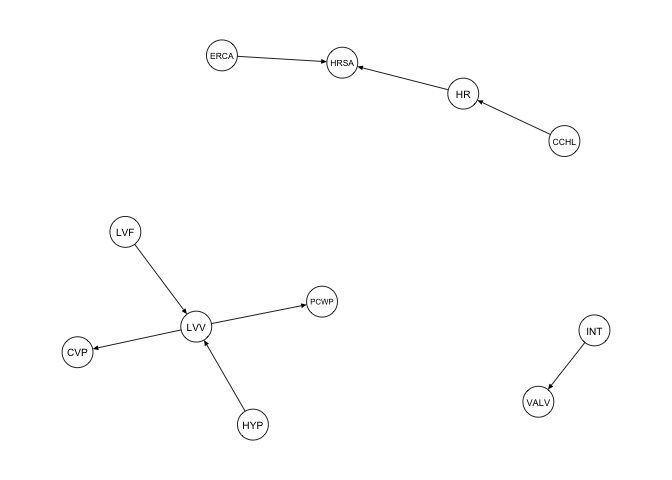
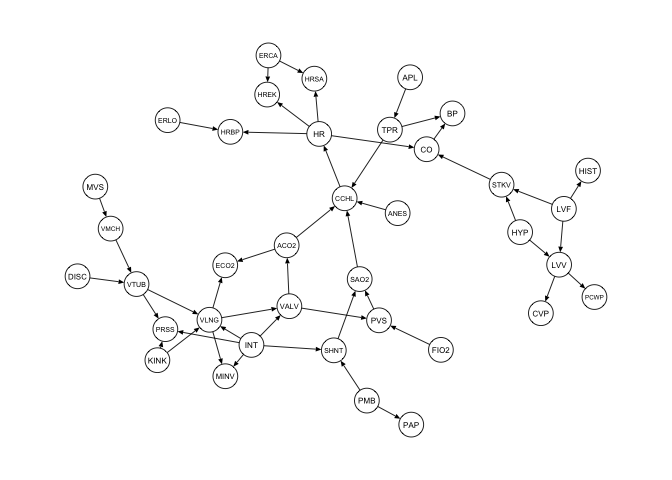
add ntb 02 zenodo ref

diff --git a/notebook_02_subgraph_selection_evaluation_publish.md b/notebook_02_subgraph_selection_evaluation_publish.md
@@ -1,10 +1,6 @@
-Graph subset selection
-================
-David Reiffenscheidt and Oleksandr Zadorozhnyi
+***Setup of the problem***
 
-**Setup of the problem**
-
-Given a "large" graph *G* = (*V*,*E*), where *V* represents the set of
+Given a large graph *G* = (*V*,*E*), where *V* represents the set of
 nodes and *E* represents the set of edges, the goal is to select a
 subgraph *S* = (*V*<sub>*s*</sub>,*E*<sub>*s*</sub>) from G such that S
 is a meaningful and informative representation of the original graph
@@ -42,9 +38,104 @@ library("igraph")
     ## 
     ##     union
 
+Reading the files from Zenodo entry in the community
+
+``` r
+# necessary libraries to use for Zenodo REST-API
+library(litr)
+library(zen4R)
+
+zenodo <- ZenodoManager$new(
+  logger = "INFO" # use "DEBUG" to see detailed API operation logs, use NULL if you don't want logs at all
+)
+
+# downloading files using zenodo doi and reading from the file 
+rec1 <- zenodo$getRecordByDOI("10.5281/zenodo.7676616")
+```
+
+    ## [zen4R][INFO] ZenodoRequest - Fetching https://zenodo.org/api/records/?q=doi:%2210.5281/zenodo.7676616%22&size=10&page=1&all_versions=1 
+    ## [zen4R][INFO] ZenodoManager - Successfully fetched list of published records - page 1 
+    ## [zen4R][INFO] ZenodoManager - Successfully fetched list of published records! 
+    ## [zen4R][INFO] ZenodoManager - Successfully fetched record for DOI '10.5281/zenodo.7676616'!
+
+``` r
+files <- rec1$listFiles(pretty = TRUE)
+
+#create a folder where to download files from record
+dir.create("download_zenodo")
+```
+
+    ## Warning in dir.create("download_zenodo"): 'download_zenodo' already exists
+
+``` r
+#download files
+rec1$downloadFiles(path = "download_zenodo")
+```
+
+    ## [zen4R][INFO] ZenodoRecord - Download in sequential mode 
+    ## [zen4R][INFO] ZenodoRecord - Will download 1 file from record '7676616' (doi: '10.5281/zenodo.7676616') - total size: 2 MiB 
+    ## [zen4R][INFO] Downloading file 'bnlearn_data.zip' - size: 2 MiB
+    ## [zen4R][INFO] File downloaded at '/Users/admin/Work/MaRDITA3/Notebooks/StMaRDI/download_zenodo'.
+    ## [zen4R][INFO] ZenodoRecord - Verifying file integrity... 
+    ## [zen4R][INFO] File 'bnlearn_data.zip': integrity verified (md5sum: f123ea701227cfd8a43996183b7c5279)
+    ## [zen4R][INFO] ZenodoRecord - End of download
+
+``` r
+downloaded_files <- list.files("download_zenodo")
+
+zipF = sprintf("download_zenodo/%s",downloaded_files)
+
+# unzipping in the current folder
+unzip(zipF,exdir = "./")
+
+alarm_name = list.files(tools::file_path_sans_ext(downloaded_files))[1]
+
+path_to_file = paste0(tools::file_path_sans_ext(downloaded_files),"/",alarm_name,"/",alarm_name,".csv")
+
+df = read.csv(path_to_file)
+head(df)
+```
+
+    ##      CVP   PCWP  HIST    TPR     BP     CO HRBP HREK HRSA    PAP   SAO2   FIO2
+    ## 1 NORMAL NORMAL FALSE    LOW NORMAL   HIGH HIGH HIGH HIGH NORMAL NORMAL    LOW
+    ## 2 NORMAL NORMAL FALSE NORMAL    LOW    LOW HIGH HIGH HIGH NORMAL    LOW NORMAL
+    ## 3 NORMAL   HIGH FALSE NORMAL NORMAL   HIGH HIGH HIGH HIGH NORMAL    LOW NORMAL
+    ## 4 NORMAL NORMAL FALSE    LOW    LOW   HIGH HIGH HIGH HIGH NORMAL NORMAL NORMAL
+    ## 5 NORMAL NORMAL FALSE    LOW    LOW NORMAL HIGH HIGH HIGH NORMAL    LOW NORMAL
+    ## 6 NORMAL NORMAL FALSE    LOW NORMAL   HIGH HIGH HIGH HIGH NORMAL    LOW NORMAL
+    ##     PRSS ECO2 MINV    MVS   HYP   LVF   APL  ANES   PMB    INT  KINK  DISC
+    ## 1   HIGH ZERO HIGH NORMAL FALSE FALSE FALSE FALSE FALSE NORMAL FALSE  TRUE
+    ## 2   HIGH ZERO ZERO NORMAL FALSE FALSE FALSE FALSE FALSE NORMAL FALSE FALSE
+    ## 3 NORMAL ZERO ZERO NORMAL FALSE FALSE FALSE FALSE FALSE NORMAL FALSE FALSE
+    ## 4   HIGH ZERO ZERO NORMAL FALSE FALSE FALSE FALSE FALSE NORMAL FALSE FALSE
+    ## 5    LOW ZERO ZERO NORMAL FALSE FALSE FALSE FALSE FALSE NORMAL FALSE FALSE
+    ## 6   HIGH HIGH ZERO NORMAL FALSE FALSE FALSE  TRUE FALSE NORMAL FALSE FALSE
+    ##      LVV   STKV CCHL  ERLO   HR  ERCA   SHNT    PVS   ACO2 VALV VLNG VTUB
+    ## 1 NORMAL NORMAL HIGH FALSE HIGH FALSE NORMAL NORMAL NORMAL HIGH  LOW ZERO
+    ## 2 NORMAL    LOW HIGH FALSE HIGH FALSE NORMAL    LOW    LOW ZERO ZERO  LOW
+    ## 3 NORMAL NORMAL HIGH FALSE HIGH FALSE NORMAL    LOW    LOW ZERO ZERO  LOW
+    ## 4 NORMAL NORMAL HIGH FALSE HIGH FALSE NORMAL NORMAL    LOW ZERO ZERO  LOW
+    ## 5 NORMAL NORMAL HIGH FALSE HIGH FALSE NORMAL    LOW    LOW ZERO ZERO  LOW
+    ## 6 NORMAL NORMAL HIGH FALSE HIGH FALSE NORMAL    LOW    LOW ZERO ZERO  LOW
+    ##     VMCH
+    ## 1 NORMAL
+    ## 2 NORMAL
+    ## 3 NORMAL
+    ## 4 NORMAL
+    ## 5 NORMAL
+    ## 6 NORMAL
+
+We need to transform data first
+
+``` r
+for (item in colnames(df)){
+  df[,item] = as.factor(df[,item])
+}
+```
+
 ``` r
 data("alarm")
-alarm_df <- as.data.frame(na.omit(alarm))
+alarm_df <- as.data.frame(na.omit(df))
 
 p = length(names(alarm))
 n = dim(alarm)[1]
@@ -53,14 +144,14 @@ for (i in c(1:p)) {
 }
 ```
 
-Applying nonparanormal transformation to standardize the data.
+#### Applying nonparanormal transformation to standardize the data.
 
 ``` r
 library("huge")
 alarm_df <- huge.npn(alarm_df)
 ```
 
-Conducting the nonparanormal (npn) transformation via shrunkun ECDF....done.
+    ## Conducting the nonparanormal (npn) transformation via shrunkun ECDF....done.
 
 ``` r
 #####
@@ -79,7 +170,7 @@ qgraph(dag_alarm, legend.cex = 0.3,
        asize=2,edge.color="black", vsize= 4)
 ```
 
-![](notebook_02_subgraph_selection_evaluation_publish_files/figure-markdown_github/unnamed-chunk-4-1.png)
+![](notebook_02_subgraph_selection_evaluation_publish_files/figure-markdown_github/unnamed-chunk-6-1.png)
 
 Selection of the set of nodes for subsetting
 
@@ -98,14 +189,14 @@ qgraph(procedure1, legend.cex = 0.3,
        asize=2,edge.color="black", vsize= 5)
 ```
 
-![](notebook_02_subgraph_selection_evaluation_publish_files/figure-markdown_github/unnamed-chunk-6-1.png)
+![](notebook_02_subgraph_selection_evaluation_publish_files/figure-markdown_github/unnamed-chunk-8-1.png)
 
 Second procedure selects the subgraph based on the following euristics.
 Given the ground truth DAG *G* = (*V*,*E*) and subset of vertices
 *V*<sub>*s*</sub> ⊂ *V* the goal is to find the corresponding set of
 vertices *E*<sub>*s*</sub> such that for
 (*V*<sub>*s*</sub>,*E*<sub>*s*</sub>) the structure of the distribution
-for *P*<sub>*V_*<sub>*s</sub></sub>* does not contradict the structure of the distribution
+for $ P\_{V_s}$ does not contradict the structure of the distribution
 *P*<sub>*V*</sub> so that we the task of structure estimation (and then
 benchmarking) on (*V*<sub>*s*</sub>,*E*<sub>*s*</sub>) can be done with
 a new ground truth.
@@ -153,7 +244,7 @@ qgraph(procedure2, legend.cex = 0.3,
        asize=2,edge.color="black", vsize= 5)
 ```
 
-![](notebook_02_subgraph_selection_evaluation_publish_files/figure-markdown_github/unnamed-chunk-7-1.png)
+![](notebook_02_subgraph_selection_evaluation_publish_files/figure-markdown_github/unnamed-chunk-9-1.png)
 Subsetting the dataset according to “subgraph_nodes” selection
 
 ``` r
@@ -217,7 +308,7 @@ plot(ig_tabu, main = "tabu", frame = T, layout=layout_with_fr, vertex.size=6,
      vertex.label.dist=0.5, vertex.color="red", edge.arrow.size=0.1, arrow.size=0.1, vertex.label.cex = 0.5)
 ```
 
-<img src="notebook_02_subgraph_selection_evaluation_publish_files/figure-markdown_github/unnamed-chunk-11-1.png" width="20%" />
+<img src="notebook_02_subgraph_selection_evaluation_publish_files/figure-markdown_github/unnamed-chunk-13-1.png" width="20%" />
 
 Selfdefined function for different measures
 
